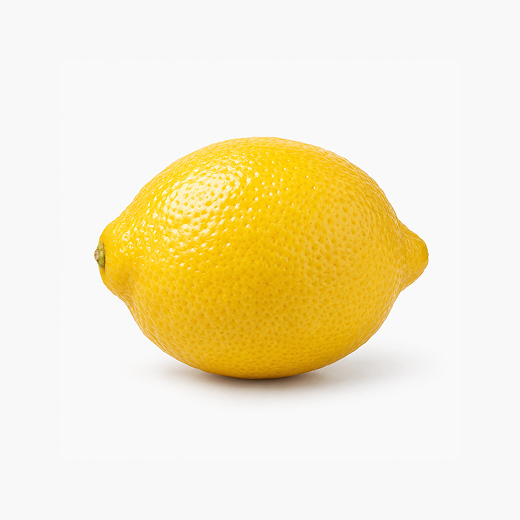
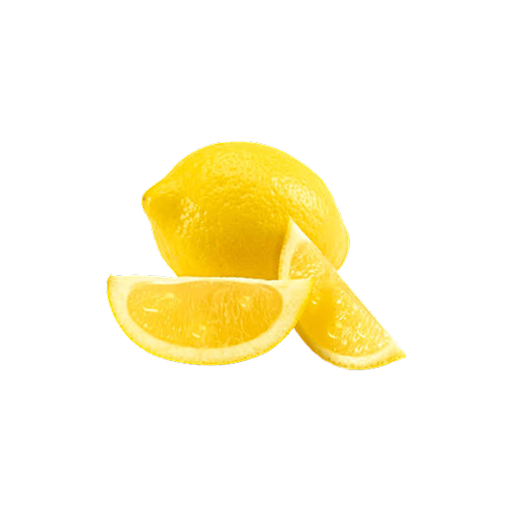
feat: 과일 사진 17종 추가하고 홈·검색·상세에 연결
가격 데이터의 과일 17종 사진이 모두 들어와서 앱 전체에 연결했다.

- assets/images/food: 감귤, 단감, 망고, 배, 복숭아, 블루베리, 사과, 아보카도, 오렌지,
  자몽, 참다래, 체리, 키위, 파인애플 추가. 레몬, 바나나, 포도 사진 교체.
- produce-images: 과일 17종 + 채소 5종을 품목 이름으로 연결한다.
  단감은 이제 전용 사진(단감.png)을 쓴다. 가격 데이터에 없는 양상추, 용과 연결은 뺐다.
- 홈 Today's PRICE: 사진이 있는 과일 → 채소 순서로 최대 10개를 보여준다.
  (조사일이 14일보다 오래된 품목은 건너뜀)

검색 결과, 상품 상세, 장바구니, AI 장보기 추천, 체크리스트는 같은 사진 목록을 쓰므로
따로 고치지 않아도 사진이 나온다.

Changed region(s): [[0.1846, 0.2462, 0.8308, 0.7692]]

diff --git a/src/features/produce/produce-images.ts b/src/features/produce/produce-images.ts
@@ -1,22 +1,34 @@
 /**
  * 신선 과일·채소 사진 (assets/images/food).
  * 가격 데이터의 품목 이름(item_name)이 키입니다. 사진을 추가하면 여기에 한 줄 추가하세요.
- * 예: 사과.png 를 넣었다면 → 사과: require("../../../assets/images/food/사과.png"),
+ * 예: 당근.png 를 넣었다면 → 당근: require("../../../assets/images/food/당근.png"),
  */
 const produceImages: Record<string, number> = {
+  // 과일 (가격 데이터의 과일 17종 전부)
+  감귤: require("../../../assets/images/food/감귤.png"),
+  단감: require("../../../assets/images/food/단감.png"),
+  레몬: require("../../../assets/images/food/레몬.png"),
+  망고: require("../../../assets/images/food/망고.png"),
+  바나나: require("../../../assets/images/food/바나나.png"),
+  배: require("../../../assets/images/food/배.png"),
+  복숭아: require("../../../assets/images/food/복숭아.png"),
+  블루베리: require("../../../assets/images/food/블루베리.png"),
+  사과: require("../../../assets/images/food/사과.png"),
+  아보카도: require("../../../assets/images/food/아보카도.png"),
+  오렌지: require("../../../assets/images/food/오렌지.png"),
+  자몽: require("../../../assets/images/food/자몽.png"),
+  참다래: require("../../../assets/images/food/참다래.png"),
+  체리: require("../../../assets/images/food/체리.png"),
+  키위: require("../../../assets/images/food/키위.png"),
+  파인애플: require("../../../assets/images/food/파인애플.png"),
+  포도: require("../../../assets/images/food/포도.png"),
+
+  // 채소 (가격 데이터에서는 딸기도 채소류로 분류됩니다)
   감자: require("../../../assets/images/food/감자.png"),
   깻잎: require("../../../assets/images/food/깻잎.png"),
   딸기: require("../../../assets/images/food/딸기.png"),
-  레몬: require("../../../assets/images/food/레몬.png"),
-  바나나: require("../../../assets/images/food/바나나.png"),
   브로콜리: require("../../../assets/images/food/브로콜리.png"),
   상추: require("../../../assets/images/food/상추.png"),
-  포도: require("../../../assets/images/food/포도.png"),
-  // 가격 데이터에는 "단감"으로 들어옵니다.
-  단감: require("../../../assets/images/food/감.png"),
-  // 아래는 가격 데이터에는 없지만 홈 화면 임시 카드에서 씁니다.
-  양상추: require("../../../assets/images/food/양상추.png"),
-  용과: require("../../../assets/images/food/용과.png"),
 };
 
 /** 사진이 없는 품목이면 undefined 를 돌려줍니다. */

diff --git a/src/features/home/home-service.ts b/src/features/home/home-service.ts
@@ -14,19 +14,26 @@ export type TodayPrice = {
   changePct: number | null;
 };
 
-// 사진이 있는 품목 위주로 보여줍니다. (가격 데이터에 없거나 오래된 품목은 건너뜁니다)
+// 사진이 있는 품목을 과일 → 채소 순서로 보여줍니다. (가격 데이터에 없거나 오래된 품목은 건너뜁니다)
 const CANDIDATES = [
-  "바나나",
-  "감자",
+  "사과",
+  "배",
+  "감귤",
+  "단감",
   "포도",
+  "바나나",
+  "키위",
   "레몬",
+  "망고",
+  "파인애플",
+  "아보카도",
+  "블루베리",
+  "감자",
   "브로콜리",
   "상추",
   "깻잎",
-  "단감",
-  "딸기",
 ];
-const MAX_ITEMS = 8;
+const MAX_ITEMS = 10;
 const STALE_DAYS = 14;
 
 type ProduceRow = {
